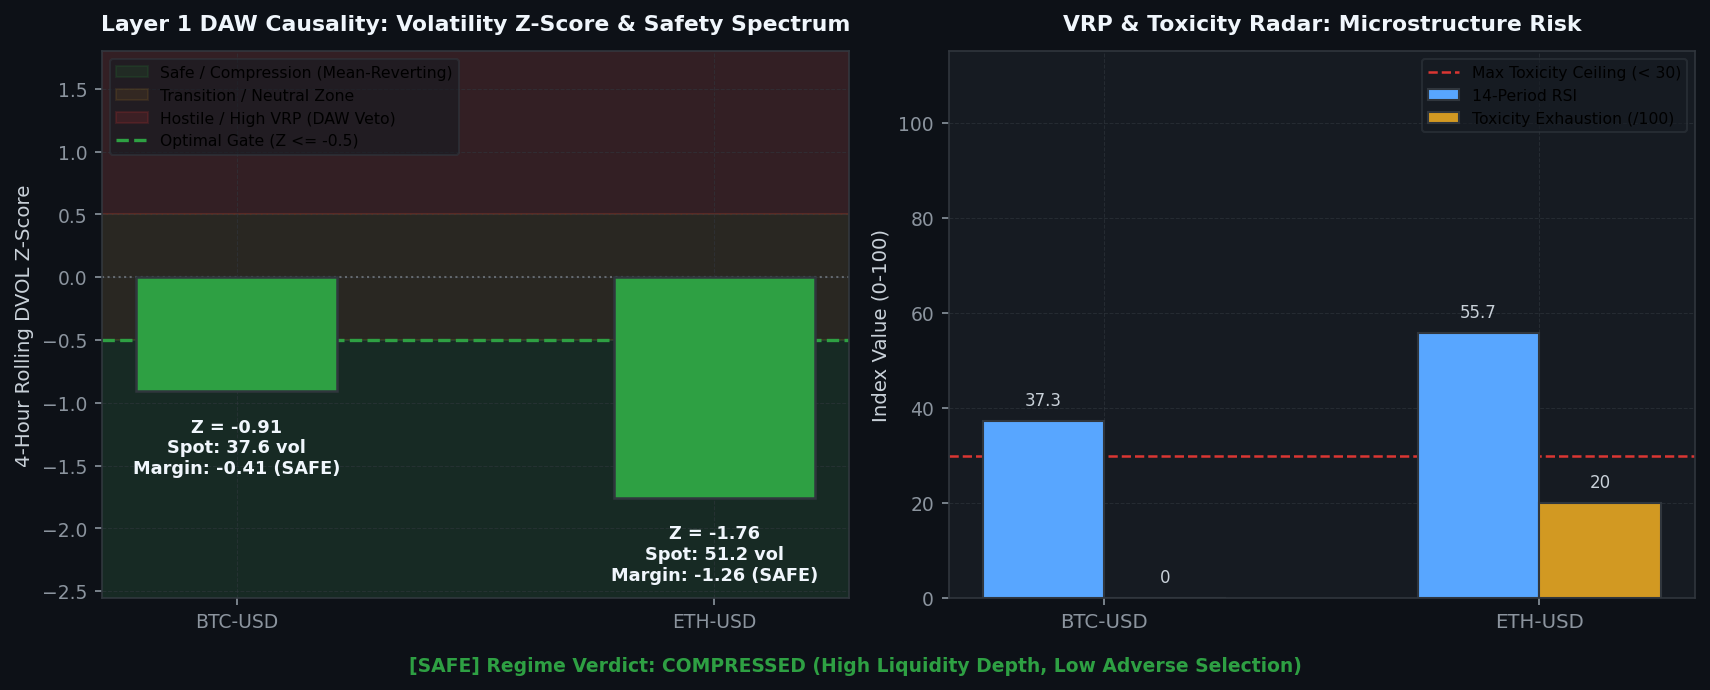
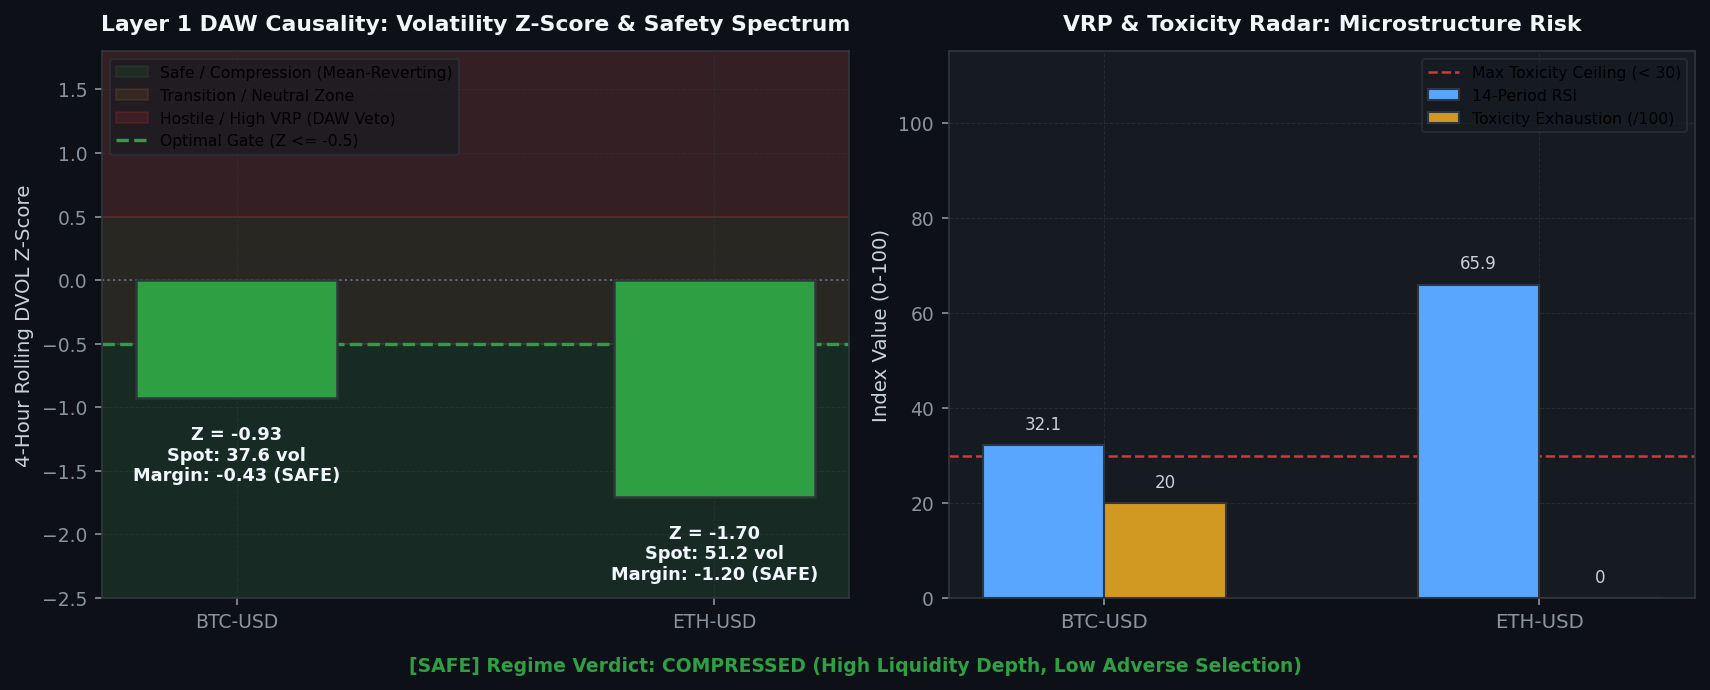
[coinbase] Hourly Status & Visual Intelligence Update: 2026-09-04 13:44:33

diff --git a/coinbase/data/hourly_status_report.md b/coinbase/data/hourly_status_report.md
@@ -3,7 +3,7 @@ layout: default
 ---
 
 # 🛡 Unified Trading System Hourly Status & Visual Intelligence
-> **Report Generated**: `2026-09-04 01:41:51 PM PDT (2026-09-04 20:41:51 UTC)`  
+> **Report Generated**: `2026-09-04 01:44:14 PM PDT (2026-09-04 20:44:14 UTC)`  
 > **System Health**: **🟡 DEGRADED / RESTRICTED** | **Win Rate**: `0.0%` | **Completed Trades**: `0`
 
 
@@ -15,13 +15,13 @@ Real-time Deribit implied volatility (DVOL) proxy tracking against mathematicall
 
 | Symbol | Proxy Oracle | Live Z-Score | Optimal Limit (YSP) | Safety Margin | Live VRP | Optimal VRP (YSP) | DAW Safety Verdict |
 | :--- | :--- | :--- | :--- | :--- | :--- | :--- | :--- |
-| `AVAX-USD` | DVOL_BTC | **-0.91** | **-0.50** | **-0.41** | **-27.44** | -1.0 | 🟢 SAFE |
-| `ETH-USD` | DVOL_ETH | **-1.76** | **-0.50** | **-1.26** | **+1.63** | -1.0 | 🔴 DAW VETOED |
-| `ADA-USD` | DVOL_BTC | **-0.91** | **-0.50** | **-0.41** | **-15.22** | -1.0 | 🟢 SAFE |
-| `DOGE-USD` | DVOL_BTC | **-0.91** | **-0.50** | **-0.41** | **-27.44** | -1.0 | 🟢 SAFE |
-| `BTC-USD` | DVOL_BTC | **-0.91** | **-0.50** | **-0.41** | **-27.45** | -1.0 | 🟢 SAFE |
-| `LINK-USD` | DVOL_BTC | **-0.91** | **-0.50** | **-0.41** | **-11.86** | -1.0 | 🟢 SAFE |
-| `SOL-USD` | DVOL_BTC | **-0.91** | **-0.50** | **-0.41** | **-11.87** | -1.0 | 🟢 SAFE |
+| `AVAX-USD` | DVOL_BTC | **-0.93** | **-0.50** | **-0.43** | **-27.44** | -1.0 | 🟢 SAFE |
+| `ETH-USD` | DVOL_ETH | **-1.70** | **-0.50** | **-1.20** | **+1.64** | -1.0 | 🔴 DAW VETOED |
+| `ADA-USD` | DVOL_BTC | **-0.93** | **-0.50** | **-0.43** | **-15.22** | -1.0 | 🟢 SAFE |
+| `DOGE-USD` | DVOL_BTC | **-0.93** | **-0.50** | **-0.43** | **-27.44** | -1.0 | 🟢 SAFE |
+| `BTC-USD` | DVOL_BTC | **-0.93** | **-0.50** | **-0.43** | **-27.45** | -1.0 | 🟢 SAFE |
+| `LINK-USD` | DVOL_BTC | **-0.93** | **-0.50** | **-0.43** | **-11.86** | -1.0 | 🟢 SAFE |
+| `SOL-USD` | DVOL_BTC | **-0.93** | **-0.50** | **-0.43** | **-11.87** | -1.0 | 🟢 SAFE |
 
 
 
@@ -37,11 +37,11 @@ We hereby certify that the mission-critical algorithmic data assets uploaded by 
 
 | Status | Data Asset | Freshness / State | Details / Timestamp |
 | :---: | :--- | :--- | :--- |
-| ✅ | **Go-List JSON** | Fresh (25.07h old) | 09-03 12:37 |
-| ✅ | **TimesFM Forecasts** | Fresh (2.85h old) | 09-04 10:50 |
-| ✅ | **Holding Times config** | Fresh (96.97h old) | 08-31 12:43 |
-| ✅ | **BTC DVOL Cache** | Fresh (0.01h old) | 09-04 13:41 |
-| ✅ | **ETH DVOL Cache** | Fresh (0.01h old) | 09-04 13:41 |
+| ✅ | **Go-List JSON** | Fresh (25.11h old) | 09-03 12:37 |
+| ✅ | **TimesFM Forecasts** | Fresh (0.03h old) | 09-04 13:42 |
+| ✅ | **Holding Times config** | Fresh (97.01h old) | 08-31 12:43 |
+| ✅ | **BTC DVOL Cache** | Fresh (0.00h old) | 09-04 13:44 |
+| ✅ | **ETH DVOL Cache** | Fresh (0.00h old) | 09-04 13:44 |
 | ❌ | **Live Trading Telemetry** | STALE! (1.9h old) | Limit 0.1h |
 
 <br>
@@ -55,7 +55,7 @@ Layer-by-layer tick evaluation waterfall and asset-specific performance tracking
 
 | Funnel Filter Layer | Total Rejections | % of Rejections |
 | :--- | :--- | :--- |
-| Tier 1: Macro Volatility Tensor Gate (Omega_macro) | `108,867` | **100.0%** |
+| Tier 1: Macro Volatility Tensor Gate (Omega_macro) | `108,894` | **100.0%** |
 | Tier 2: Unified Transport & Directional Engine | `0` | **0.0%** |
 | Tier 3: Continuous Hawkes-SFGK Pricer (HAS-Pricer) | `0` | **0.0%** |
 | System: Asset Cooldown Active | `0` | **0.0%** |
@@ -132,14 +132,14 @@ Live balance sheet and open maker liquidity positions from Coinbase CDP.
 ## 6. 🤖 Foundation Model MLOps & Pipeline Orchestration
 Weekly Algorithmic Mega Cap selection, Zero-shot multi-step forward return forecasts, and VSTEF parameter grid search status.
 
-- **TimesFM Forecast DB**: 🟢 Updated 2.9h ago (2026-09-04 10:50 AM PDT)
+- **TimesFM Forecast DB**: 🟢 Updated 0.0h ago (2026-09-04 01:42 PM PDT)
 - **Last Weekly VSTEF Optimization**: `2026-08-31 12:42:56 PM PDT`
-- **Next Scheduled VSTEF Run**: `2026-09-06 07:00:00 PM PDT (Monday 02:00 UTC)` (Countdown: **53.3h (2d 5h 18m)**)
+- **Next Scheduled VSTEF Run**: `2026-09-06 07:00:00 PM PDT (Monday 02:00 UTC)` (Countdown: **53.3h (2d 5h 15m)**)
 - **Promoted Parameter Gates**: $Z_{DVOL} \le -0.5$ | Holding Horizon $= 12\text{h}$
 
 ### Algorithmic Mega Cap Selection
 - **Last Run (Confirmation)**: `2026-09-03 12:37:49 PM PDT`
-- **Next Scheduled Run**: `2026-09-06 06:00:00 PM PDT (Monday 01:00 UTC)` (Countdown: **52.3h (2d 4h 17m)**)
+- **Next Scheduled Run**: `2026-09-06 06:00:00 PM PDT (Monday 01:00 UTC)` (Countdown: **52.3h (2d 4h 15m)**)
 - **Selected Mega Cap Universe**: `BTC, ETH, DOGE, SUI, XRP, SOL, ZEC`
 
 

diff --git a/coinbase/data/visual_intelligence.md b/coinbase/data/visual_intelligence.md
@@ -4,7 +4,7 @@ title: Visual Intelligence Gallery
 ---
 
 # 📈 Visual Intelligence Gallery
-> **Generated:** `2026-09-04 13:42:09`
+> **Generated:** `2026-09-04 13:44:33`
 > **[Return to Main Status Report](./hourly_status_report.md)**
 
 This page visualizes the internal states, market profiles, and decision criteria of the active **3-Tier Fused Decision Engine** across all layers.
